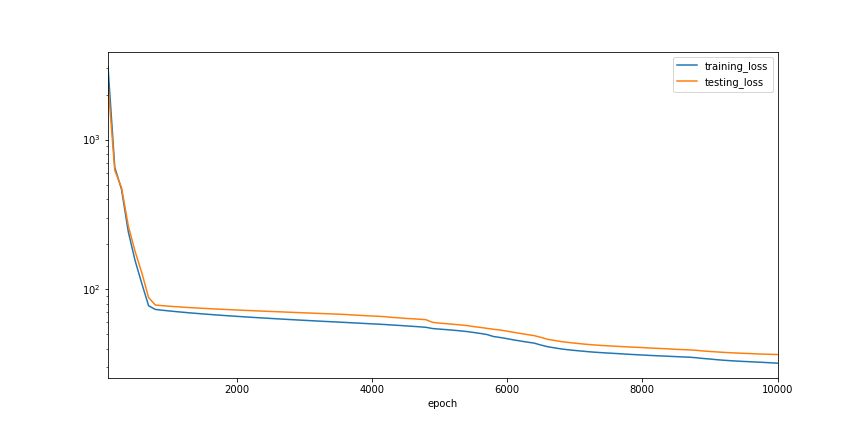
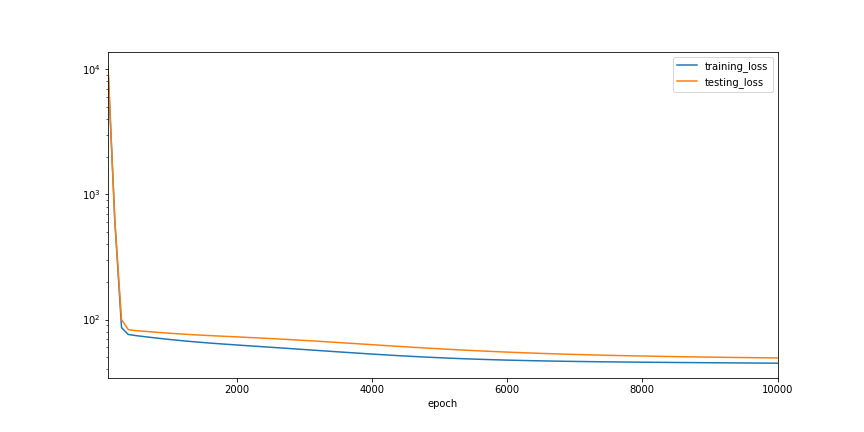
add section on m and mv method

Changed region(s): [[0.0938, 0.6019, 0.9062, 0.8426], [0.0938, 0.2708, 0.1562, 0.6019], [0.0938, 0.1505, 0.125, 0.1806]]

diff --git a/chapter4.md b/chapter4.md
@@ -160,27 +160,26 @@ print(model.layers[1].variables[1])
 > <tf.Variable 'dense_15/bias:0' shape=(1,) dtype=float32, numpy=array([22.394573], dtype=float32)>
 > ```
 
-Indeed, with learning rate 1e-3 our network basically collapsed to a bias term. In this case, the initial gradients are too big, if the learning rate is also very big, it can kill almost all the units immediately. So, we would need to either reduce the learning rate or apply some kind of control of the gradient values. Normalize the gradient is a good addition we should add to the gradient descent optimizer.   
+Indeed, with learning rate 1e-3 our network basically collapsed to a bias term. In this case, the initial gradients exploded, if the learning rate is also very big, it can kill almost all the units immediately. So, we would need to either reduce the learning rate or apply some kind of control of the gradient values. Normalize the gradient is a good addition we should add to the gradient descent optimizer.   
 ```python
 class GradientDescent(object):
-    def __init__(self, lr=.01, grad_norm=None):
+    def __init__(self, lr=.01, clipnorm=None):
         self._lr = tf.Variable(lr, dtype=tf.float32)
-        self.grad_norm = grad_norm
+        self.clipnorm = clipnorm
 
     def apply_gradients(self, grads_and_vars):
         for grad, var in grads_and_vars:
-            if self.grad_norm > 0:
-                grad = tf.clip_by_norm(grad, self.grad_norm)
+            if self.clipnorm: grad = tf.clip_by_norm(grad, self.clipnorm)
             update = - self._lr * grad
             var.assign_add(update)
 
-model, history = train(MLP(4, 1), GradientDescent(1e-3, grad_norm=2))
+model, history = train(MLP(4, 1), GradientDescent(1e-3, clipnorm=2))
 ax = history.plot(x='epoch', logy=True, figsize=(12, 6))
 ax.get_figure().savefig('ch4_plot_2.png')
 print(history['testing_loss'].min())
 ```
 ```Console
-36.491302490234375
+49.352027893066406
 ```
 > ![gradient descent with grad clip](/images/ch4_plot_2.png)    
 
@@ -251,8 +250,223 @@ ax.get_figure().savefig('ch4_plot_3.png')
 print(history.testing_loss_full.min())
 ```
 > ```Console
-> 31.820463180541992
+> 30.624069213867188
 > ```
 > ![stochastic gradient descent training loss](/images/ch4_plot_3.png)    
 
 We can see that training with small batches of random samples, the trajectory of loss values becomes a bit zig-zag in shape, but still follows the similar path as previously when we train with full dataset.
+
+```python
+model, history = train(MLP(4, 1), GradientDescent(1e-3))
+print(model.layers[0](x_te))
+print(model.layers[0](x_te) @ model.layers[1].variables[0])
+print(model.layers[1].variables[1])
+```
+> ```Console
+> tf.Tensor(
+> [[0. 0. 0. 0.]
+>  [0. 0. 0. 0.]
+>  ...
+>  [0. 0. 0. 0.]
+>  [0. 0. 0. 0.]], shape=(102, 4), dtype=float32)
+> tf.Tensor(
+> [[0.]
+>  [0.]
+>  ...
+>  [0.]
+>  [0.]], shape=(102, 1), dtype=float32)
+> <tf.Variable 'dense_15/bias:0' shape=(1,) dtype=float32, numpy=array([22.394573], dtype=float32)>
+> ```
+
+### 3 Momentum {#m}
+If we look at the learning curve, we see that after the initial huge drop, the progress becomes very slow but steady. Wondering if there is something can help us accelerate the progress? One improvement made to Gradient Descent is to accelerate it by builds up the velocity, which equals to use an exponential moving average(EMA) version of the gradients. In formula it looks like:      
+<div class='formula'>
+1. $$g \leftarrow \nabla_{\theta}J(\theta)$$ <br>
+2. $$u \leftarrow \beta u - \eta g$$ <br>
+3. $$\theta \leftarrow  \theta + u$$
+</div>  
+
+The It is not too difficult to upgrade our gradient descent optimizer to add this feature.   
+
+```python  
+class Momentum(object):
+    def __init__(self, lr=.01, beta=.9, clipnorm=None):
+        self._lr = tf.Variable(lr, dtype=tf.float32)
+        self._beta = tf.Variable(beta, dtype=tf.float32)
+        self.clipnorm = clipnorm
+
+    def init_moments(self, var_list):
+        self._moments = {var._unique_id: tf.Variable(tf.zeros_like(var))
+                         for var in var_list}
+
+    def apply_gradients(self, grads_and_vars):
+        for grad, var in grads_and_vars:
+            if self.clipnorm: grad = tf.clip_by_norm(grad, self.clipnorm)   
+            m = self._moments[var._unique_id]
+            m.assign(self._beta * m - self._lr * grad)
+            update = m
+            var.assign_add(m)
+```  
+
+What did here is to add a set of moment variables to accumulates gradients. We used a mapping to keep track of the association between variables and the accumulators.  
+
+```python
+model = MLP(4, 1)
+model.build(input_shape=(32,13))
+optimizer = Momentum(lr=1e-3, beta=.98, clipnorm=2)
+optimizer.init_moments(model.variables)
+
+model, history = train(model, optimizer, n_epochs=1000)
+ax = history.plot(x='epoch', kind='line', figsize=(12, 6))
+ax.get_figure().savefig('ch4_plot_4.png')
+
+print(history.testing_loss_full.min())
+```    
+> ```Console
+> 29.115631103515625
+> ```
+> ![stochastic gradient descent momentum training loss](/images/ch4_plot_4.png)    
+
+### 4. Second Momentum {#mv}
+As with the first moment of the gradients, second moment were also made use to guide optimization.
+The Adam optimizer looks like this in formula
+<div class='formula'>
+1. $$g \leftarrow \nabla_{\theta}J(\theta)$$ <br>
+2. $$m \leftarrow \beta_1 m + (1 - \beta_1) g$$ <br>
+3. $$v \leftarrow \beta_2 v + (1 - \beta_2) g^2$$ <br>
+4. $$\hat{\eta} \leftarrow \eta \frac{\sqrt{1 - \beta_2^T}}{1-\beta_1^T}$$ <br>
+5. $$u \leftarrow - \hat{\eta} \frac{m}{\sqrt{v} + \epsilon}$$ <br>
+6. $$\theta \leftarrow \theta + u$$
+</div>  
+
+In a nutshell, the optimizer uses two sets of accumulators to keep track of the first two moments of the gradients. The algorithm uses the second moment to scale the first moment, intuitively this works like a signal to noise ratio adjustment, with the first moment be the signal and the second moment be noise. Since all the operations are elementwise, this signal to noise treatment is customized for each and every parameter in the model, so effectively every parameter has its own learning rate.  
+
+With a few copy, paste and edit, we can upgrade the gradient descent with momentum optimizer to Adam easily.
+
+```python  
+class Adam(object):
+    def __init__(self, lr=.01, beta_1=.9, beta_2=.999, epsilon=1e-8, clipnorm=None):
+        self._lr = tf.Variable(lr, dtype=tf.float32)
+        self._beta_1 = tf.Variable(beta_1, dtype=tf.float32)
+        self._beta_2 = tf.Variable(beta_2, dtype=tf.float32)
+        self._epsilon = tf.constant(epsilon, dtype=tf.float32)
+        self.clipnorm = clipnorm
+        self._t = tf.Variable(0, dtype=tf.float32)
+
+    def init_moments(self, var_list):
+        self._m = {var._unique_id: tf.Variable(tf.zeros_like(var))
+                   for var in var_list}
+        self._v = {var._unique_id: tf.Variable(tf.zeros_like(var))
+                   for var in var_list}
+
+    def apply_gradients(self, grads_and_vars):
+        self._t.assign_add(tf.constant(1., self._t.dtype))
+        for grad, var in grads_and_vars:
+            if self.clipnorm: grad = tf.clip_by_norm(grad, self.clipnorm)
+
+            m = self._m[var._unique_id]
+            v = self._v[var._unique_id]
+
+            m.assign(self._beta_1 * m + (1. - self._beta_1) * grad)
+            v.assign(self._beta_2 * v + (1. - self._beta_2) * tf.square(grad))
+
+            lr = self._lr * tf.sqrt(1 - tf.pow(self._beta_2, self._t)) / (1 - tf.pow(self._beta_1, self._t))
+            update = -lr * m / (tf.sqrt(v) + self._epsilon)
+            var.assign_add(update)
+```  
+
+Let's see if we can get better result with Adam.  
+```python
+model = MLP(4, 1)
+model.build(input_shape=(32,13))
+optimizer = Adam(lr=1e-3, beta_1=.9, beta_2=.999, epsilon=1e-8, clipnorm=2)
+optimizer.init_moments(model.variables)
+
+model, history = train(model, optimizer, n_epochs=1000)
+ax = history.plot(x='epoch', kind='line', figsize=(12, 6))
+ax.get_figure().savefig('ch4_plot_5.png')
+
+print(history.testing_loss_full.min())
+```
+> ```Console
+> 28.03963851928711
+> ```
+> ![Adam training loss](/images/ch4_plot_5.png)    
+
+Adam is pretty much the default first choice of optimizer for most people on most problems. Since we have already organically coded it up, we can now take a look at how we can go about to do it by sub classing the [`tf.keras.optimizers.Optimizer`](https://www.tensorflow.org/api_docs/python/tf/keras/optimizers/Optimizer).   
+
+To implement a custom `tf.keras` optimizer, there are a few methods we need to implement:  
+1. `_resource_apply_dense()` - this is the method used to perform parameter updates with dense gradient tensors.   
+2. `_resource_apply_sparse()` - above but works with sparse gradient tensors.   
+3. `_create_slots()` - optionally if the optimizer require more variables. If the optimizer only uses gradients and variables(like SGD), this is not needed.   
+4.` _get_config()` - optionally for save(serialize) / load(de-serialize) the optimizer with hyperparameters.   
+
+our `init_moments()` method roughly corresponds to the `_create_slots()` and our `apply_gradients()` method needs to be moved to `_resource_apply_dense()`. And since we have quite a few hyperparameters, we need to code up the `_get_config()` method too.   
+
+```python
+class Adam(tf.keras.optimizers.Optimizer):
+    def __init__(self, learning_rate=.001, beta_1=.9, beta_2=.999, epsilon=1e-8, name='Adam', **kwargs):
+        super().__init__(name, **kwargs)
+        self._set_hyper('learning_rate', kwargs.get('lr', learning_rate))
+        self._set_hyper('beta_1', beta_1)
+        self._set_hyper('beta_2', beta_2)
+        self.epsilon = epsilon or tf.keras.backend.epsilon()
+
+    def _create_slots(self, var_list):
+        for var in var_list:
+            self.add_slot(var, 'm')
+        for var in var_list:
+            self.add_slot(var, 'v')    
+
+    def _resource_apply_dense(self, grad, var):
+        dtype = var.dtype.base_dtype
+        t = tf.cast(self.iterations + 1, dtype)
+        lr = self._decayed_lr(dtype)
+        beta_1 = self._get_hyper('beta_1', dtype)
+        beta_2 = self._get_hyper('beta_2', dtype)
+        epsilon = tf.convert_to_tensor(self.epsilon, dtype)
+
+        m = self.get_slot(var, 'm')
+        v = self.get_slot(var, 'v')
+
+        m = m.assign(beta_1 * m + (1. - beta_1) * grad)
+        v = v.assign(beta_2 * v + (1. - beta_2) * tf.square(grad))
+
+        lr = lr * tf.sqrt(1 - tf.pow(beta_2, t)) / (1 - tf.pow(beta_1, t))
+        update = -lr * m / (tf.sqrt(v) + epsilon)
+        var_update = var.assign_add(update)
+        updates = [var_update, m, v]
+        return tf.group(*updates)
+
+    def get_config(self):
+        config = super().get_config()
+        config.update({
+            'learning_rate': self._serialize_hyperparameter('learning_rate'),
+            'beta_1': self._serialize_hyperparameter('beta_1'),
+            'beta_2': self._serialize_hyperparameter('beta_2'),
+            'epsilon': self.epsilon,
+            'total_steps': self._serialize_hyperparameter('total_steps'),
+        })
+        return config
+```
+
+Time to see how does it compares.  
+```python
+model = MLP(4, 1)
+optimizer = Adam(lr=1e-3, beta_1=.9, beta_2=.999, epsilon=1e-8)
+
+model, history = train(model, optimizer, n_epochs=1000)
+ax = history.plot(x='epoch', kind='line', figsize=(12, 6))
+ax.get_figure().savefig('ch4_plot_5.png')
+
+print(history.testing_loss_full.min())
+```  
+
+```Console
+29.335590362548828
+```
+> ![Adam v2](/images/ch4_plot_5.png)      
+
+From now on, we will just use [`tf.keras.optimizers.Adam`](https://www.tensorflow.org/api_docs/python/tf/keras/optimizers/Adam) whenever we are going to train a model.
+
+So we spent a lot time in optimizers in this chapter, along the way we looked at the effect of learning rate, normalization of the gradient values to prevent network collapse, and looked into the black box of how a few classic optimizer works. And we see all these has a positive impact on the training result, as our network is fitted much better compare to at the end of last chapter. Next we will look into Loss functions.
